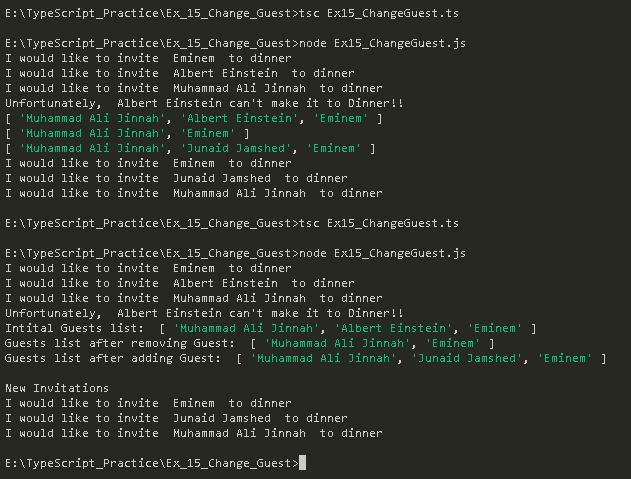
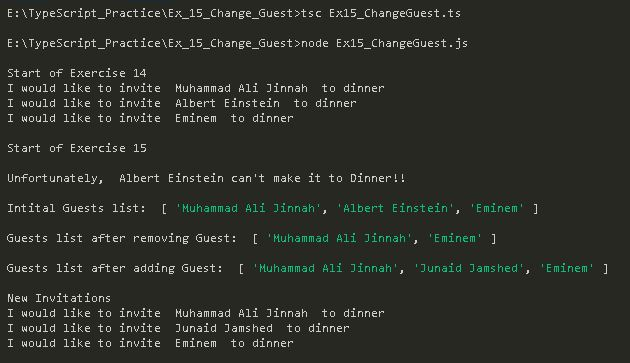
Exericses modified

diff --git a/Ex_16_AddingMoreGuests/Ex16_MoreGuests.js b/Ex_16_AddingMoreGuests/Ex16_MoreGuests.js
@@ -1,35 +1,38 @@
+console.log("\nStart of Exercise 14");
 var guestss = ["Muhammad Ali Jinnah", "Albert Einstein", "Eminem"];
 for (var i = 0; i < guestss.length; i++) {
     console.log("I would like to invite ", guestss[i], " to dinner");
 }
-console.log("Unfortunately, ", guestss[1], "can't make it to Dinner!!");
-console.log("Intital Guests list: ", guestss);
+console.log("\nStart of Exericse 15");
+console.log("\nUnfortunately, ", guestss[1], "can't make it to Dinner!!");
+console.log("\nIntital Guests list: ", guestss);
 var indextoremov = 1;
 guestss.splice(indextoremov, 1);
-console.log("Guests list after removing Guest: ", guestss);
+console.log("\nGuests list after removing Guest: ", guestss);
 var newguests = "Junaid Jamshed";
 guestss.splice(indextoremov, 0, newguests);
-console.log("Guests list after adding Guest: ", guestss);
+console.log("\nGuests list after adding Guest: ", guestss);
 console.log("\nNew Invitations");
 for (var i = 0; i < guestss.length; i++) {
     console.log("I would like to invite ", guestss[i], " to dinner");
 }
 //Start of Exercise 16
-console.log("Attention to all, Fortunately we've found a bigger table, few more guests will be invited to the dinner");
-console.log("Guest List Before Insertion: ", guestss);
+console.log("\nStart of Exercise 16");
+console.log("\nAttention to all, Fortunately we've found a bigger table, few more guests will be invited to the dinner");
+console.log("\nGuest List Before Insertion: ", guestss);
 //insert at first index
 var firstindex_guest = "Mathew Perry";
 guestss.unshift(firstindex_guest);
-console.log("Guest List after inserting guest at first index: ", guestss);
+console.log("\nGuest List after inserting guest at first index: ", guestss);
 //insert at middle index
 var middleindex_guest = "King Arthur";
 var middleindex = Math.floor(guestss.length / 2);
 guestss.splice(middleindex, 0, middleindex_guest);
-console.log("Guest List after inserting guest at middle index: ", guestss);
+console.log("\nGuest List after inserting guest at middle index: ", guestss);
 //insert at last index
 var lastindex_guest = "Donald Trump";
 guestss.push(lastindex_guest);
-console.log("Guest List after inserting guest at last index: ", guestss);
+console.log("\nGuest List after inserting guest at last index: ", guestss);
 console.log("\nNew Invitations");
 for (var i = 0; i < guestss.length; i++) {
     console.log("I would like to invite ", guestss[i], " to dinner");

diff --git a/Ex_17_Shrink_list/Ex17_Shrinklist.ts b/Ex_17_Shrink_list/Ex17_Shrinklist.ts
@@ -1,0 +1,73 @@
+console.log("\nStart of Exercise 14")
+let guestsss : String[] = ["Muhammad Ali Jinnah", "Albert Einstein", "Eminem"]
+
+for (let i = 0; i<guestsss.length; i++){
+    console.log("I would like to invite ",guestsss[i]," to dinner")
+}
+
+console.log("\nStart of Exercise 15")
+console.log("\nUnfortunately, ",guestsss[1], "can't make it to Dinner!!")
+console.log("\nIntital Guests list: ", guestsss)
+
+let indextoremovee : number = 1
+guestsss.splice(indextoremovee, 1)
+console.log("\nGuests list after removing Guest: ", guestsss)
+
+let newguestss : string = "Junaid Jamshed"
+guestsss.splice(indextoremovee,0,newguestss)
+
+console.log("\nGuests list after adding Guest: ",guestsss)
+
+console.log("\nNew Invitations")
+for (let i = 0; i<guestsss.length; i++){
+    console.log("I would like to invite ",guestsss[i]," to dinner")
+}
+
+//Start of Exercise 16
+console.log("\nStart of Exercise 16")
+console.log("\nAttention to all, Fortunately we've found a bigger table, few more guests will be invited to the dinner")
+console.log("\nGuest List Before Insertion: ", guestsss)
+
+//insert at first index
+let firstindex_guests : string = "Mathew Perry"
+guestsss.unshift(firstindex_guests)
+
+console.log("\nGuest List after inserting guest at first index: ",guestsss)
+
+//insert at middle index
+let middleindex_guests : string = "King Arthur"
+let middleindexx : number = Math.floor(guestsss.length/2)
+guestsss.splice(middleindexx,0,middleindex_guests)
+
+console.log("\nGuest List after inserting guest at middle index: ",guestsss)
+
+//insert at last index
+let lastindex_guests : string = "Donald Trump"
+guestsss.push(lastindex_guests)
+
+console.log("\nGuest List after inserting guest at last index: ",guestsss)
+
+console.log("\n\nNew Invitations")
+for (let i = 0; i<guestsss.length; i++){
+    console.log("I would like to invite ",guestsss[i]," to dinner")
+}
+
+//Start of Ex17
+console.log("\n Start of Exericse 17")
+
+console.log("\nUnfortunately due some management issues, we can only invite 2 people to dinner\n")
+
+while(guestsss.length>2){
+let removedguest = guestsss.pop()
+console.log("Sorry, ",removedguest, " cant invite you to dinner!")
+}
+console.log("\nNew guest list")
+for(let i =0 ; i < guestsss.length ;i++){
+    console.log(guestsss[i],"You are still invited to dinner")
+}
+
+//arrived at dinner
+guestsss.splice(0)
+console.log("\nEmpty Guest list: ",guestsss)
+
+

diff --git a/Ex_16_AddingMoreGuests/Ex16_MoreGuests.ts b/Ex_16_AddingMoreGuests/Ex16_MoreGuests.ts
@@ -1,20 +1,21 @@
+console.log("\nStart of Exercise 14")
 let guestss : String[] = ["Muhammad Ali Jinnah", "Albert Einstein", "Eminem"]
 
 for (let i = 0; i<guestss.length; i++){
     console.log("I would like to invite ",guestss[i]," to dinner")
 }
-
-console.log("Unfortunately, ",guestss[1], "can't make it to Dinner!!")
-console.log("Intital Guests list: ", guestss)
+console.log("\nStart of Exericse 15")
+console.log("\nUnfortunately, ",guestss[1], "can't make it to Dinner!!")
+console.log("\nIntital Guests list: ", guestss)
 
 let indextoremov : number = 1
 guestss.splice(indextoremov, 1)
-console.log("Guests list after removing Guest: ", guestss)
+console.log("\nGuests list after removing Guest: ", guestss)
 
 let newguests : string = "Junaid Jamshed"
 guestss.splice(indextoremov,0,newguests)
 
-console.log("Guests list after adding Guest: ",guestss)
+console.log("\nGuests list after adding Guest: ",guestss)
 
 console.log("\nNew Invitations")
 for (let i = 0; i<guestss.length; i++){
@@ -22,25 +23,25 @@ for (let i = 0; i<guestss.length; i++){
 }
 
 //Start of Exercise 16
-
-console.log("Attention to all, Fortunately we've found a bigger table, few more guests will be invited to the dinner")
-console.log("Guest List Before Insertion: ", guestss)
+console.log("\nStart of Exercise 16")
+console.log("\nAttention to all, Fortunately we've found a bigger table, few more guests will be invited to the dinner")
+console.log("\nGuest List Before Insertion: ", guestss)
 
 //insert at first index
 let firstindex_guest : string = "Mathew Perry"
 guestss.unshift(firstindex_guest)
-console.log("Guest List after inserting guest at first index: ",guestss)
+console.log("\nGuest List after inserting guest at first index: ",guestss)
 
 //insert at middle index
 let middleindex_guest : string = "King Arthur"
 let middleindex : number = Math.floor(guestss.length/2)
 guestss.splice(middleindex,0,middleindex_guest)
-console.log("Guest List after inserting guest at middle index: ",guestss)
+console.log("\nGuest List after inserting guest at middle index: ",guestss)
 
 //insert at last index
 let lastindex_guest : string = "Donald Trump"
 guestss.push(lastindex_guest)
-console.log("Guest List after inserting guest at last index: ",guestss)
+console.log("\nGuest List after inserting guest at last index: ",guestss)
 
 console.log("\nNew Invitations")
 for (let i = 0; i<guestss.length; i++){

diff --git a/Ex_17_Shrink_list/Ex17_Shrinklist.js b/Ex_17_Shrink_list/Ex17_Shrinklist.js
@@ -1,0 +1,53 @@
+console.log("\nStart of Exercise 14");
+var guestsss = ["Muhammad Ali Jinnah", "Albert Einstein", "Eminem"];
+for (var i = 0; i < guestsss.length; i++) {
+    console.log("I would like to invite ", guestsss[i], " to dinner");
+}
+console.log("\nStart of Exercise 15");
+console.log("\nUnfortunately, ", guestsss[1], "can't make it to Dinner!!");
+console.log("\nIntital Guests list: ", guestsss);
+var indextoremovee = 1;
+guestsss.splice(indextoremovee, 1);
+console.log("\nGuests list after removing Guest: ", guestsss);
+var newguestss = "Junaid Jamshed";
+guestsss.splice(indextoremovee, 0, newguestss);
+console.log("\nGuests list after adding Guest: ", guestsss);
+console.log("\nNew Invitations");
+for (var i = 0; i < guestsss.length; i++) {
+    console.log("I would like to invite ", guestsss[i], " to dinner");
+}
+//Start of Exercise 16
+console.log("\nStart of Exercise 16");
+console.log("\nAttention to all, Fortunately we've found a bigger table, few more guests will be invited to the dinner");
+console.log("\nGuest List Before Insertion: ", guestsss);
+//insert at first index
+var firstindex_guests = "Mathew Perry";
+guestsss.unshift(firstindex_guests);
+console.log("\nGuest List after inserting guest at first index: ", guestsss);
+//insert at middle index
+var middleindex_guests = "King Arthur";
+var middleindexx = Math.floor(guestsss.length / 2);
+guestsss.splice(middleindexx, 0, middleindex_guests);
+console.log("\nGuest List after inserting guest at middle index: ", guestsss);
+//insert at last index
+var lastindex_guests = "Donald Trump";
+guestsss.push(lastindex_guests);
+console.log("\nGuest List after inserting guest at last index: ", guestsss);
+console.log("\n\nNew Invitations");
+for (var i = 0; i < guestsss.length; i++) {
+    console.log("I would like to invite ", guestsss[i], " to dinner");
+}
+//Start of Ex17
+console.log("\n Start of Exericse 17");
+console.log("\nUnfortunately due some management issues, we can only invite 2 people to dinner\n");
+while (guestsss.length > 2) {
+    var removedguest = guestsss.pop();
+    console.log("Sorry, ", removedguest, " cant invite you to dinner!");
+}
+console.log("\nNew guest list");
+for (var i = 0; i < guestsss.length; i++) {
+    console.log(guestsss[i], "You are still invited to dinner");
+}
+//arrived at dinner
+guestsss.splice(0);
+console.log("\nEmpty Guest list: ", guestsss);

diff --git a/Ex_15_Change_Guest/Ex15_ChangeGuest.js b/Ex_15_Change_Guest/Ex15_ChangeGuest.js
@@ -1,16 +1,18 @@
+console.log("\nStart of Exercise 14");
 var guests = ["Muhammad Ali Jinnah", "Albert Einstein", "Eminem"];
 for (var i = 0; i < guests.length; i++) {
     console.log("I would like to invite ", guests[i], " to dinner");
 }
 //Start of Ex 15
-console.log("Unfortunately, ", guests[1], "can't make it to Dinner!!");
-console.log("Intital Guests list: ", guests);
+console.log("\nStart of Exercise 15");
+console.log("\nUnfortunately, ", guests[1], "can't make it to Dinner!!");
+console.log("\nIntital Guests list: ", guests);
 var indextoremove = 1;
 guests.splice(indextoremove, 1);
-console.log("Guests list after removing Guest: ", guests);
+console.log("\nGuests list after removing Guest: ", guests);
 var newguest = "Junaid Jamshed";
 guests.splice(indextoremove, 0, newguest);
-console.log("Guests list after adding Guest: ", guests);
+console.log("\nGuests list after adding Guest: ", guests);
 console.log("\nNew Invitations");
 for (var i = 0; i < guests.length; i++) {
     console.log("I would like to invite ", guests[i], " to dinner");

diff --git a/Ex_15_Change_Guest/Ex15_ChangeGuest.ts b/Ex_15_Change_Guest/Ex15_ChangeGuest.ts
@@ -1,3 +1,4 @@
+console.log("\nStart of Exercise 14")
 let guests : String[] = ["Muhammad Ali Jinnah", "Albert Einstein", "Eminem"]
 
 for (let i = 0; i<guests.length; i++){
@@ -5,19 +6,19 @@ for (let i = 0; i<guests.length; i++){
 }
 
 //Start of Ex 15
+console.log("\nStart of Exercise 15")
 
-
-console.log("Unfortunately, ",guests[1], "can't make it to Dinner!!")
-console.log("Intital Guests list: ", guests)
+console.log("\nUnfortunately, ",guests[1], "can't make it to Dinner!!")
+console.log("\nIntital Guests list: ", guests)
 
 let indextoremove : number = 1
 guests.splice(indextoremove, 1)
-console.log("Guests list after removing Guest: ", guests)
+console.log("\nGuests list after removing Guest: ", guests)
 
 let newguest : string = "Junaid Jamshed"
 guests.splice(indextoremove,0,newguest)
 
-console.log("Guests list after adding Guest: ",guests)
+console.log("\nGuests list after adding Guest: ",guests)
 
 console.log("\nNew Invitations")
 for (let i = 0; i<guests.length; i++){

diff --git a/Ex_13_OwnArray/Ex13_OwnArray.ts b/Ex_13_OwnArray/Ex13_OwnArray.ts
@@ -1,5 +1,5 @@
 let trans : String[] = ["Nissan", "Ford", "Dodge"]
 
-console.log("I would like to own a ",trans[0]," GTR")
-console.log("I would like to own a ",trans[1]," Mustang")
-console.log("I would like to own a ",trans[2]," Charger")
+for ( let i = 0; i < trans.length; i++){
+    console.log("I would like to own a, ",trans[i])
+}

diff --git a/Ex_13_OwnArray/Ex13_OwnArray.js b/Ex_13_OwnArray/Ex13_OwnArray.js
@@ -1,4 +1,4 @@
 var trans = ["Nissan", "Ford", "Dodge"];
-console.log("I would like to own a ", trans[0], " GTR");
-console.log("I would like to own a ", trans[1], " Mustang");
-console.log("I would like to own a ", trans[2], " Charger");
+for (var i = 0; i < trans.length; i++) {
+    console.log("I would like to own a, ", trans[i]);
+}

diff --git a/Ex_14_GuestArray/Ex14_GuestArray.js b/Ex_14_GuestArray/Ex14_GuestArray.js
@@ -1,3 +1,4 @@
+console.log("\nStart of Exercise 14");
 var guest = ["Muhammad Ali Jinnah", "Albert Einstein", "Eminem"];
 for (var i = 0; i < guest.length; i++) {
     console.log("I would like to invite ", guest[i], " to dinner");

diff --git a/Ex_14_GuestArray/Ex14_GuestArray.ts b/Ex_14_GuestArray/Ex14_GuestArray.ts
@@ -1,3 +1,4 @@
+console.log("\nStart of Exercise 14")
 let guest : String[] = ["Muhammad Ali Jinnah", "Albert Einstein", "Eminem"]
 
 for (let i = 0; i<guest.length; i++){
